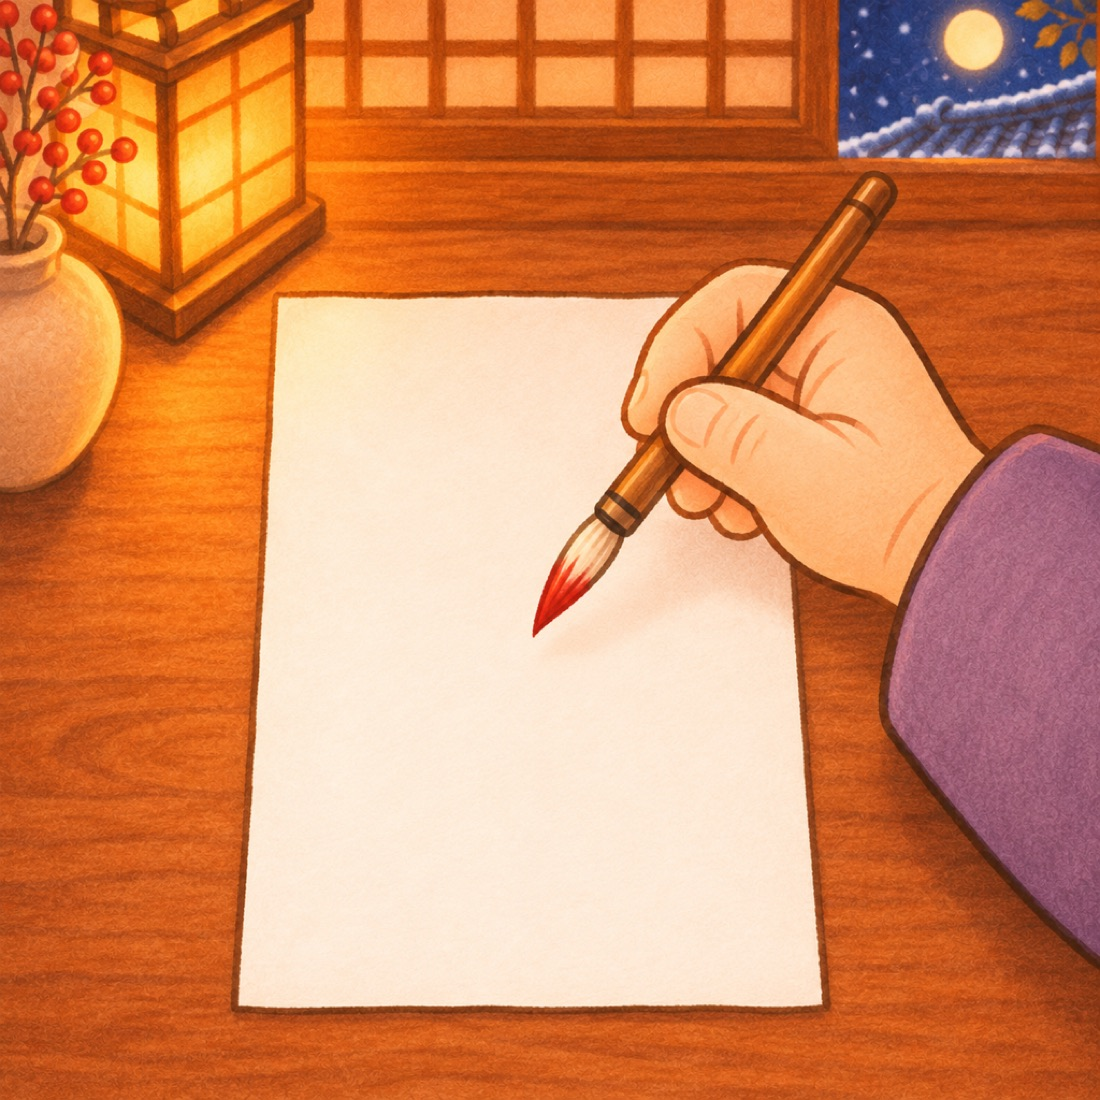
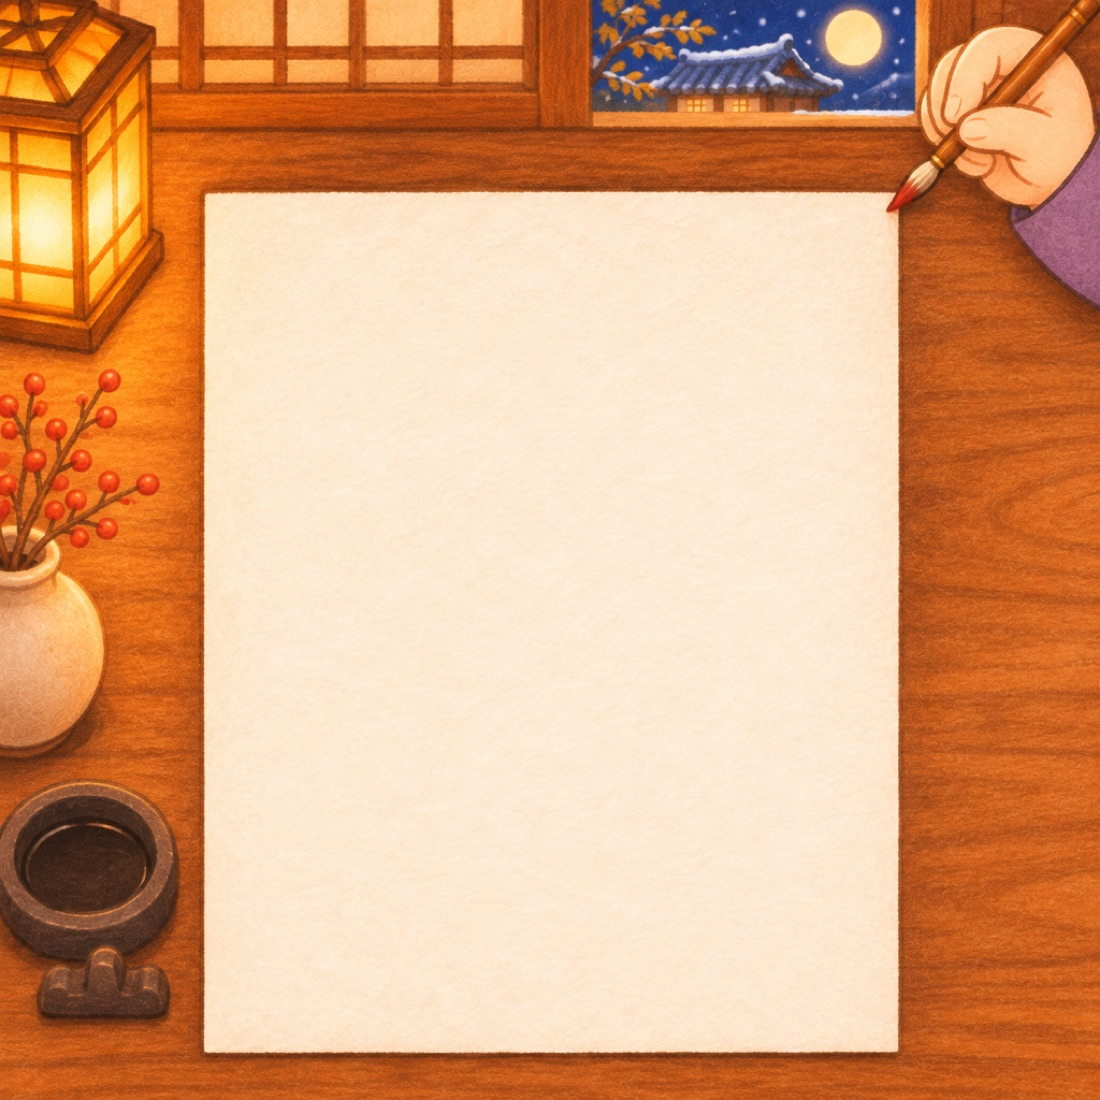
랜딩: 소원 손글씨·책 다시 그림·만세력 먹글씨+오행·글자 그림 라이브러리·따옴표 자막을 말풍선으로

diff --git a/landing.html b/landing.html
@@ -6,6 +6,7 @@
 <meta name="robots" content="noindex, nofollow">
 <title>막아 주는 할미 · 2027 신년운세 (랜딩 뼈대)</title>
 <link rel="stylesheet" href="https://cdn.jsdelivr.net/gh/orioncactus/pretendard@v1.3.9/dist/web/variable/pretendardvariable-dynamic-subset.min.css">
+<link href="https://fonts.googleapis.com/css2?family=Nanum+Pen+Script&display=swap" rel="stylesheet">
 <style>
 /* 랜딩 뼈대 v0 (11/22) — 형식은 청월당 월하소녀 결과 페이지(15 문서 L0~L22)와 같은 순서·길이. 컷은 «장면+대사» 자리, 블록은 chart 계산값.
    색·서체는 임시(원본 결: 흰 바탕·남회 제목·하늘 강조·하단 검정 띠). 다혜 색은 형식 확정 뒤. */
@@ -55,16 +56,18 @@ p{margin:0}
 .ey2{font-family:var(--serif);font-size:18px;letter-spacing:1px}
 .nm2{font-family:var(--serif);font-size:84px;line-height:104px;font-weight:700;margin:4px 0}
 .ln2{font-family:var(--serif);font-size:20px;line-height:32px;margin-top:12px}
-.wish .wtext{position:absolute;z-index:2;left:24%;right:36%;top:52%;text-align:center;font-family:var(--serif);font-size:17px;line-height:27px;color:#3f3424}
-.wish .ring{position:absolute;z-index:2;left:16%;width:56%;top:44%;height:32%}
+.wish .wtext{position:absolute;z-index:2;left:17%;right:27%;top:37%;text-align:center;font-family:"Nanum Pen Script",cursive;font-size:30px;line-height:34px;color:#2a2520;mix-blend-mode:multiply;opacity:.88;transform:rotate(-1.5deg)}
+.wish .ring{position:absolute;z-index:2;left:5%;width:76%;top:28%;height:42%;mix-blend-mode:multiply}
 .wish .ring ellipse{fill:none;stroke:#C0392B;stroke-width:3.2;stroke-linecap:round;stroke-dasharray:1;stroke-dashoffset:1;opacity:.85}
 .wish.in .ring ellipse{animation:draw 1.4s .3s ease-out forwards}
 @keyframes draw{to{stroke-dashoffset:0}}
-.ms .grid{position:absolute;z-index:2;left:12%;right:12%;top:16%;bottom:16%;display:grid;grid-template-columns:repeat(4,1fr);gap:6px;background:rgba(251,246,234,.92);border:2px solid #B9554A;border-radius:6px;padding:10px}
-.ms .grid div{border:1px solid #D9A79F;border-radius:4px;display:flex;flex-direction:column;align-items:center;justify-content:space-around;font-family:var(--serif)}
-.ms .grid small{font-size:13px;color:#8a6a5c}
-.ms .grid b{font-size:34px;line-height:40px;color:#3a2b22;font-weight:700}
-.ms .grid div.me{background:#F6DCD6;border:2px solid #C0392B}
+.ms .grid{position:absolute;z-index:2;left:13%;right:13%;top:14%;bottom:12%;display:grid;grid-template-columns:repeat(4,1fr);mix-blend-mode:multiply}
+.ms .grid div{position:relative;display:flex;flex-direction:column;align-items:center;justify-content:space-around;font-family:var(--serif);border-left:1px solid rgba(160,60,50,.35)}
+.ms .grid div:first-child{border-left:0}
+.ms .grid small{font-size:13px;color:#7a5a4a}
+.ms .grid b{font-size:36px;line-height:40px;color:#2a201a;font-weight:700}
+.ms .grid i{font-style:normal;font-size:12px;line-height:16px;color:#fff;border-radius:8px;padding:1px 7px;margin-top:-10px;mix-blend-mode:normal}
+.ms .grid div.me::after{content:"";position:absolute;inset:-4px 2px;border:3px solid #C0392B;border-radius:48% 52% 46% 54%/50% 46% 54% 50%;transform:rotate(-3deg);opacity:.75}
 .soul .soulcap{position:absolute;z-index:2;left:0;right:0;bottom:12%;text-align:center;font-family:var(--serif);font-size:20px;line-height:32px;color:#fff;text-shadow:0 2px 10px rgba(10,20,45,.7)}
 .soul .soulcap b{font-size:24px}
 /* 블록 공통 */
@@ -237,6 +240,8 @@ function pn(o) {
   const fx = (o.sfx || []).map((f) => `<span class="sfx" style="left:${f.x}%;top:${f.y}%;transform:rotate(${f.r || -8}deg)">${f.t}</span>`).join("");
   return `<div class="pn ${o.kind || "box"}" style="--h:${o.h || 420}px;--p:${o.pos || "center"}"><img class="im" src="img/${o.img}.jpg" alt="" loading="lazy">${bs}${fx}${o.id ? `<span class="tag">${o.id}${o.video ? " · 영상" : ""}</span>` : ""}</div>`;
 }
+const ELC = { 木: ["목", "#5E9C8F"], 火: ["화", "#D9705A"], 土: ["토", "#C9A25B"], 金: ["금", "#9A948C"], 水: ["수", "#4E5A7A"] };
+const elTag = (ch) => { const [k, c] = ELC[ELOF(ch)]; return `<i style="background:${c}">${k}</i>`; };
 const capt = (html, small = "") => `<p class="cap">${html}${small ? `<small>${small}</small>` : ""}</p>`;
 const blk = (id, inner) => `<section class="blk"><span class="tag">${id}</span>${inner}</section>`;
 const lockList = (items) => `<div class="lock"><svg class="lk" viewBox="0 0 24 24"><rect x="5" y="10" width="14" height="11" rx="2" fill="#2B3D47"/><path d="M8 10V7a4 4 0 018 0v3" stroke="#2B3D47" stroke-width="2" fill="none"/></svg><h4>+ 할미가 더 짚어 줄 것</h4><ul>${items.map((t) => `<li>${esc(t)}</li>`).join("")}</ul></div>`;
@@ -280,14 +285,13 @@ function render(v) {
   /* L1 */
   H.push(`<div class="wt">`);
   H.push(pn({ id: "L1-1", img: "l/L1-1", h: 520, kind: "full", pos: "center 25%", video: true, b: [{ t: `${esc(NAME)}${voc(NAME)}, 왔구나.<br>네가 적어 둔 소원부터<br>읽어 봤다.`, x: 42, y: 60, w: 54 }] }));
-  H.push(`<div class="pn box wish" style="--h:330px"><img class="im" src="img/l/L1-2.jpg" alt="" loading="lazy"><p class="wtext">「${esc(WISH)}」</p><svg class="ring" viewBox="0 0 200 120"><ellipse cx="100" cy="60" rx="92" ry="48" pathLength="1"/></svg><span class="sfx" style="left:66%;top:80%;transform:rotate(-10deg)">쓱—</span><span class="tag">L1-2 · 내 소원 쪽지</span></div>`);
-  H.push(capt(`<em>${esc(WISH)}</em>.<br>이 줄에 동그라미를 쳐 두마.`));
+  H.push(`<div class="pn box wish" style="--h:330px"><img class="im" src="img/l/L1-2.jpg" alt="" loading="lazy"><p class="wtext">${esc(WISH)}</p><svg class="ring" viewBox="0 0 200 120"><ellipse cx="100" cy="60" rx="92" ry="48" pathLength="1"/></svg><span class="sfx" style="left:62%;top:8%;transform:rotate(-10deg)">쓱—</span><div class="bb" style="left:44%;top:74%;width:50%"><span>이 소원에<br>동그라미를<br>쳐 두마.</span></div><span class="tag">L1-2 · 내 소원 쪽지</span></div>`);
   H.push(pn({ id: "L1-3", img: "l/L1-3", h: 330, kind: "boxR", pos: "center 30%", b: [{ t: "그래, 이 마음<br>할미가 안다.", x: -22, y: 6, w: 48 }, { t: "그런데 소원만 보고<br>달리면 넘어진다.", x: -22, y: 56, w: 52 }] }));
   H.push(pn({ id: "L1-4", img: "l/L1-4", h: 260, kind: "tilt", pos: "center", sfx: [{ t: "톡, 톡", x: 60, y: 58, r: -12 }], b: [{ t: "소원보다 먼저<br><b>네 여덟 글자</b>부터<br>펴 보자.", x: 46, y: -20, w: 52 }] }));
-  H.push(`<div class="pn box ms" style="--h:360px"><img class="im" src="img/l/L1-5.jpg" alt="" loading="lazy"><div class="grid">${["시", "일", "월", "년"].map((l) => { const c = T[l]; return `<div class="${l === "일" ? "me" : ""}"><small>${l}</small><b>${c ? c.gan : "?"}</b><b>${c ? c.zhi : "?"}</b></div>`; }).join("")}</div><span class="tag">L1-5 · 내 만세력</span></div>`);
-  H.push(capt(`${esc(birthText())}`, "오른쪽부터 년·월·일·시. 빨간 칸이 너 자신이다."));
+  H.push(`<div class="pn box ms" style="--h:360px"><img class="im" src="img/l/L1-5.jpg" alt="" loading="lazy"><div class="grid">${["시", "일", "월", "년"].map((l) => { const c = T[l]; return `<div class="${l === "일" ? "me" : ""}"><small>${l}</small><b>${c ? c.gan : "?"}</b>${c ? elTag(c.gan) : ""}<b>${c ? c.zhi : "?"}</b>${c ? elTag(c.zhi) : ""}</div>`; }).join("")}</div><span class="tag">L1-5 · 내 만세력</span></div>`);
+  H.push(capt(`${esc(birthText())}`, "오른쪽부터 년·월·일·시. 붉게 동그라미 친 칸이 너 자신이다."));
   H.push(pn({ id: "L1-6", img: "l/L1-6", h: 460, kind: "full", pos: "center 20%", video: true, b: [{ t: `여기,<br>일 자리의 <b>${esc(meCh)}</b>.<br>이게 바로 너다.`, x: 46, y: 58, w: 50 }] }));
-  H.push(`<div class="pn full soul" style="--h:300px"><img class="im" src="img/l/L1-7.jpg" alt="" loading="lazy"><p class="soulcap"><b>${esc(baseCh)}</b> ${esc(base)} 위에 선<br><b>${esc(meCh)}</b> ${esc(me)}</p><span class="tag">L1-7 · 내 글자 그림</span></div>`);
+  H.push(`<div class="pn full soul" style="--h:300px"><img class="im" src="img/s/${encodeURIComponent(meCh + baseCh)}.jpg" onerror="this.onerror=null;this.src='img/l/L1-7.jpg'" alt="" loading="lazy"><p class="soulcap"><b>${esc(baseCh)}</b> ${esc(base)} 위에 선<br><b>${esc(meCh)}</b> ${esc(me)}</p><span class="tag">L1-7 · 내 글자 그림</span></div>`);
   H.push(capt(`남들 눈엔 꿋꿋이 버티는 사람인데,<br><em>속은 늘 다음 계절만 기다리지.</em>`, `${born}에 태어난 ${esc(me)}라서 그렇다.`));
   H.push(`<p class="dots">⋮</p>`);
   H.push(capt(`2026년을 먼저 짚어 보니<br><em>이때 많이 버거웠겠구나.</em>`));
@@ -297,8 +301,7 @@ function render(v) {
   /* L3 */
   H.push(`<div class="wt">`);
   H.push(pn({ id: "L3-1", img: "l/L3-1", h: 320, kind: "boxL", pos: "center 30%", b: [{ t: "조금만 일찍 왔으면<br>덜 다쳤을 거다.", x: 56, y: -8, w: 44 }] }));
-  H.push(pn({ id: "L3-2", img: "l/L3-2", h: 260, kind: "full", pos: "center", b: [{ t: "괜찮다.<br><b>2027년은</b><br>미리 막으면 된다.", x: 50, y: -18, w: 46 }] }));
-  H.push(capt(`<em>${esc(LOVE)}</em>이라고 했지.<br>«${esc(askShort)}»도 물었고.`, "그것까지 같이 보마."));
+  H.push(pn({ id: "L3-2", img: "l/L3-2", h: 260, kind: "full", pos: "center", b: [{ t: "괜찮다.<br><b>2027년은</b><br>미리 막으면 된다.", x: 50, y: -18, w: 46 }, { t: `<b>${esc(LOVE)}</b>이라 했지.<br>물어본 그 일까지<br>같이 보마.`, x: 2, y: 56, w: 48 }] }));
   H.push(pn({ id: "L3-3", img: "l/L3-3", h: 480, kind: "boxR", pos: "center 25%", video: true, sfx: [{ t: "스르륵", x: -18, y: 70, r: -6 }], b: [{ t: "아까 네가 뽑은<br>제비부터 펴 보마.", x: -24, y: 4, w: 50 }] }));
   H.push(pn({ id: "L3-4", img: "l/L3-4", h: 260, kind: "tilt", pos: "center 40%", sfx: [{ t: "흠…", x: 70, y: 10, r: 8 }], b: [{ t: `…<b>${esc(SHORTV(v.yearVerdict))}</b><br>해로구나.`, x: 6, y: 62, w: 48 }] }));
   H.push(`</div>`);
@@ -309,8 +312,7 @@ function render(v) {
   H.push(pn({ id: "L5-1", img: "l/L5-1", h: 500, kind: "full", pos: "center 22%", video: true, b: [{ t: "좋다고 풀어지지 말고,<br>나쁘다고<br>주저앉지도 마라.", x: 44, y: 58, w: 52 }] }));
   H.push(capt(`정미년은<br><em>미리 아는 사람만 덜 다치는 해</em>다.`));
   H.push(pn({ id: "L5-2", img: "l/L5-2", h: 280, kind: "tilt", pos: "center", sfx: [{ t: "짤랑", x: 66, y: 18, r: 10 }], b: [{ t: `그중에<br><b>돈</b>이 제일 먼저 샌다.`, x: 4, y: 6, w: 50 }] }));
-  H.push(pn({ id: "L5-3", img: "l/L5-3", h: 340, kind: "boxL", pos: "center 30%", b: [{ t: `<b>${esc(cm[0]?.m || "●월")}</b>에<br><span class="blur">카드값으로</span><br>크게 나간다.`, x: 52, y: -10, w: 46 }, { t: "꽉 쥐고 있어라.", x: 54, y: 62, w: 42 }] }));
-  H.push(capt(`«${esc(askShort)}»<br><em>돈부터 막아야 그 길도 열린다.</em>`));
+  H.push(pn({ id: "L5-3", img: "l/L5-3", h: 340, kind: "boxL", pos: "center 30%", b: [{ t: `<b>${esc(cm[0]?.m || "●월")}</b>에<br><span class="blur">카드값으로</span><br>크게 나간다.`, x: 52, y: -10, w: 46 }, { t: "네가 물은 그 일도<br><b>돈부터 막아야</b><br>길이 열린다.", x: 50, y: 58, w: 48 }] }));
   H.push(`</div>`);
   /* L6 재물 */
   const wScore = 40 + A.find((a) => a[0] === "재물운")[1] * 10;
